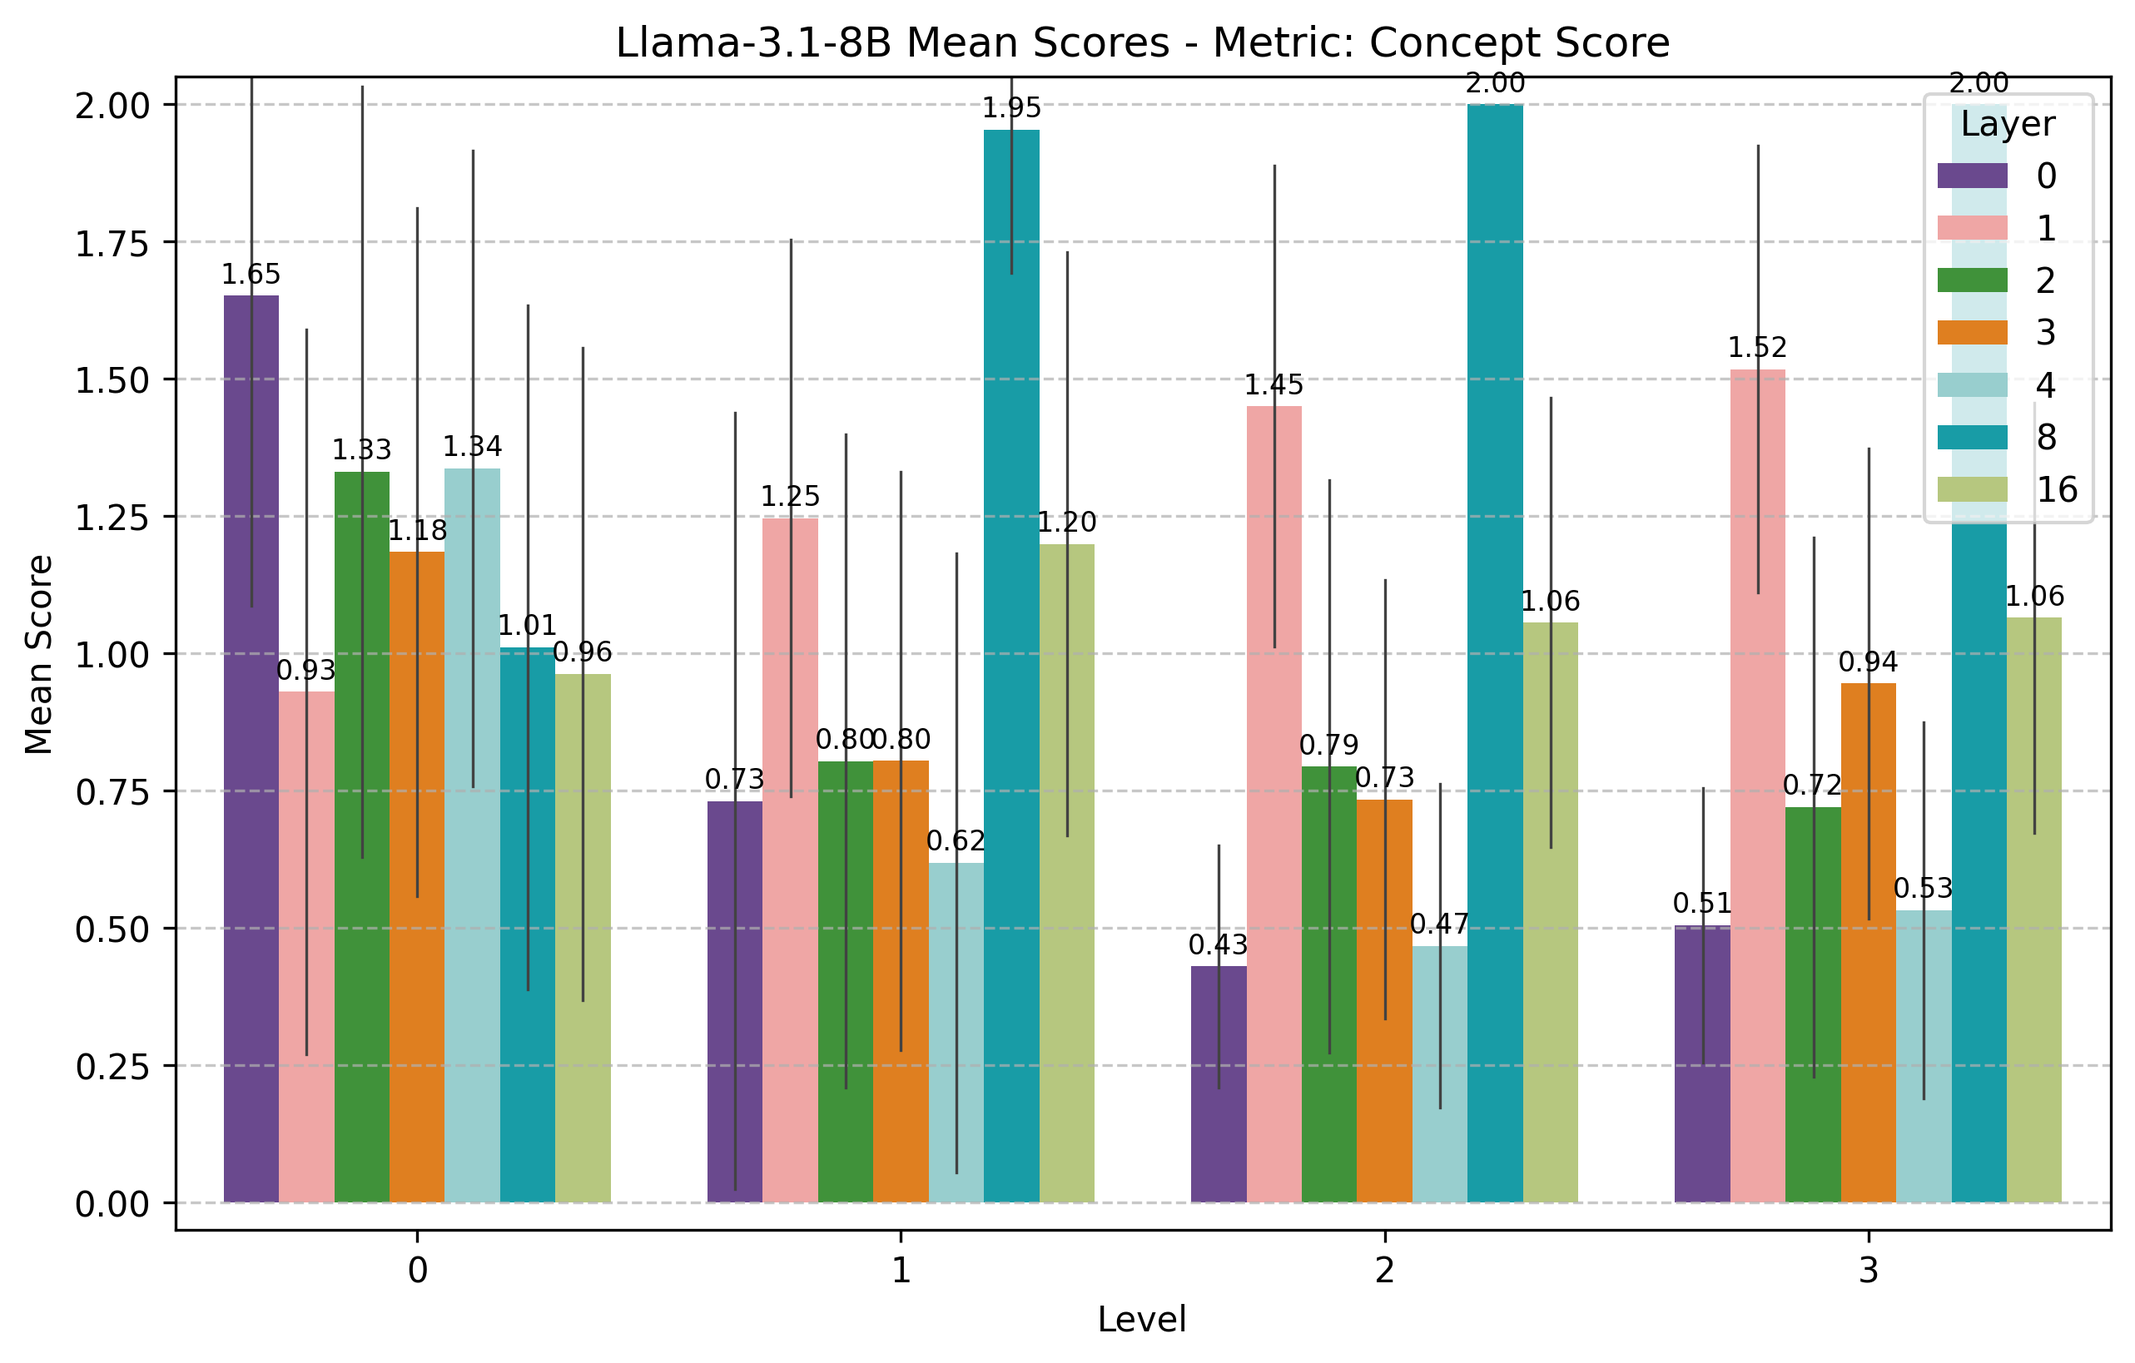
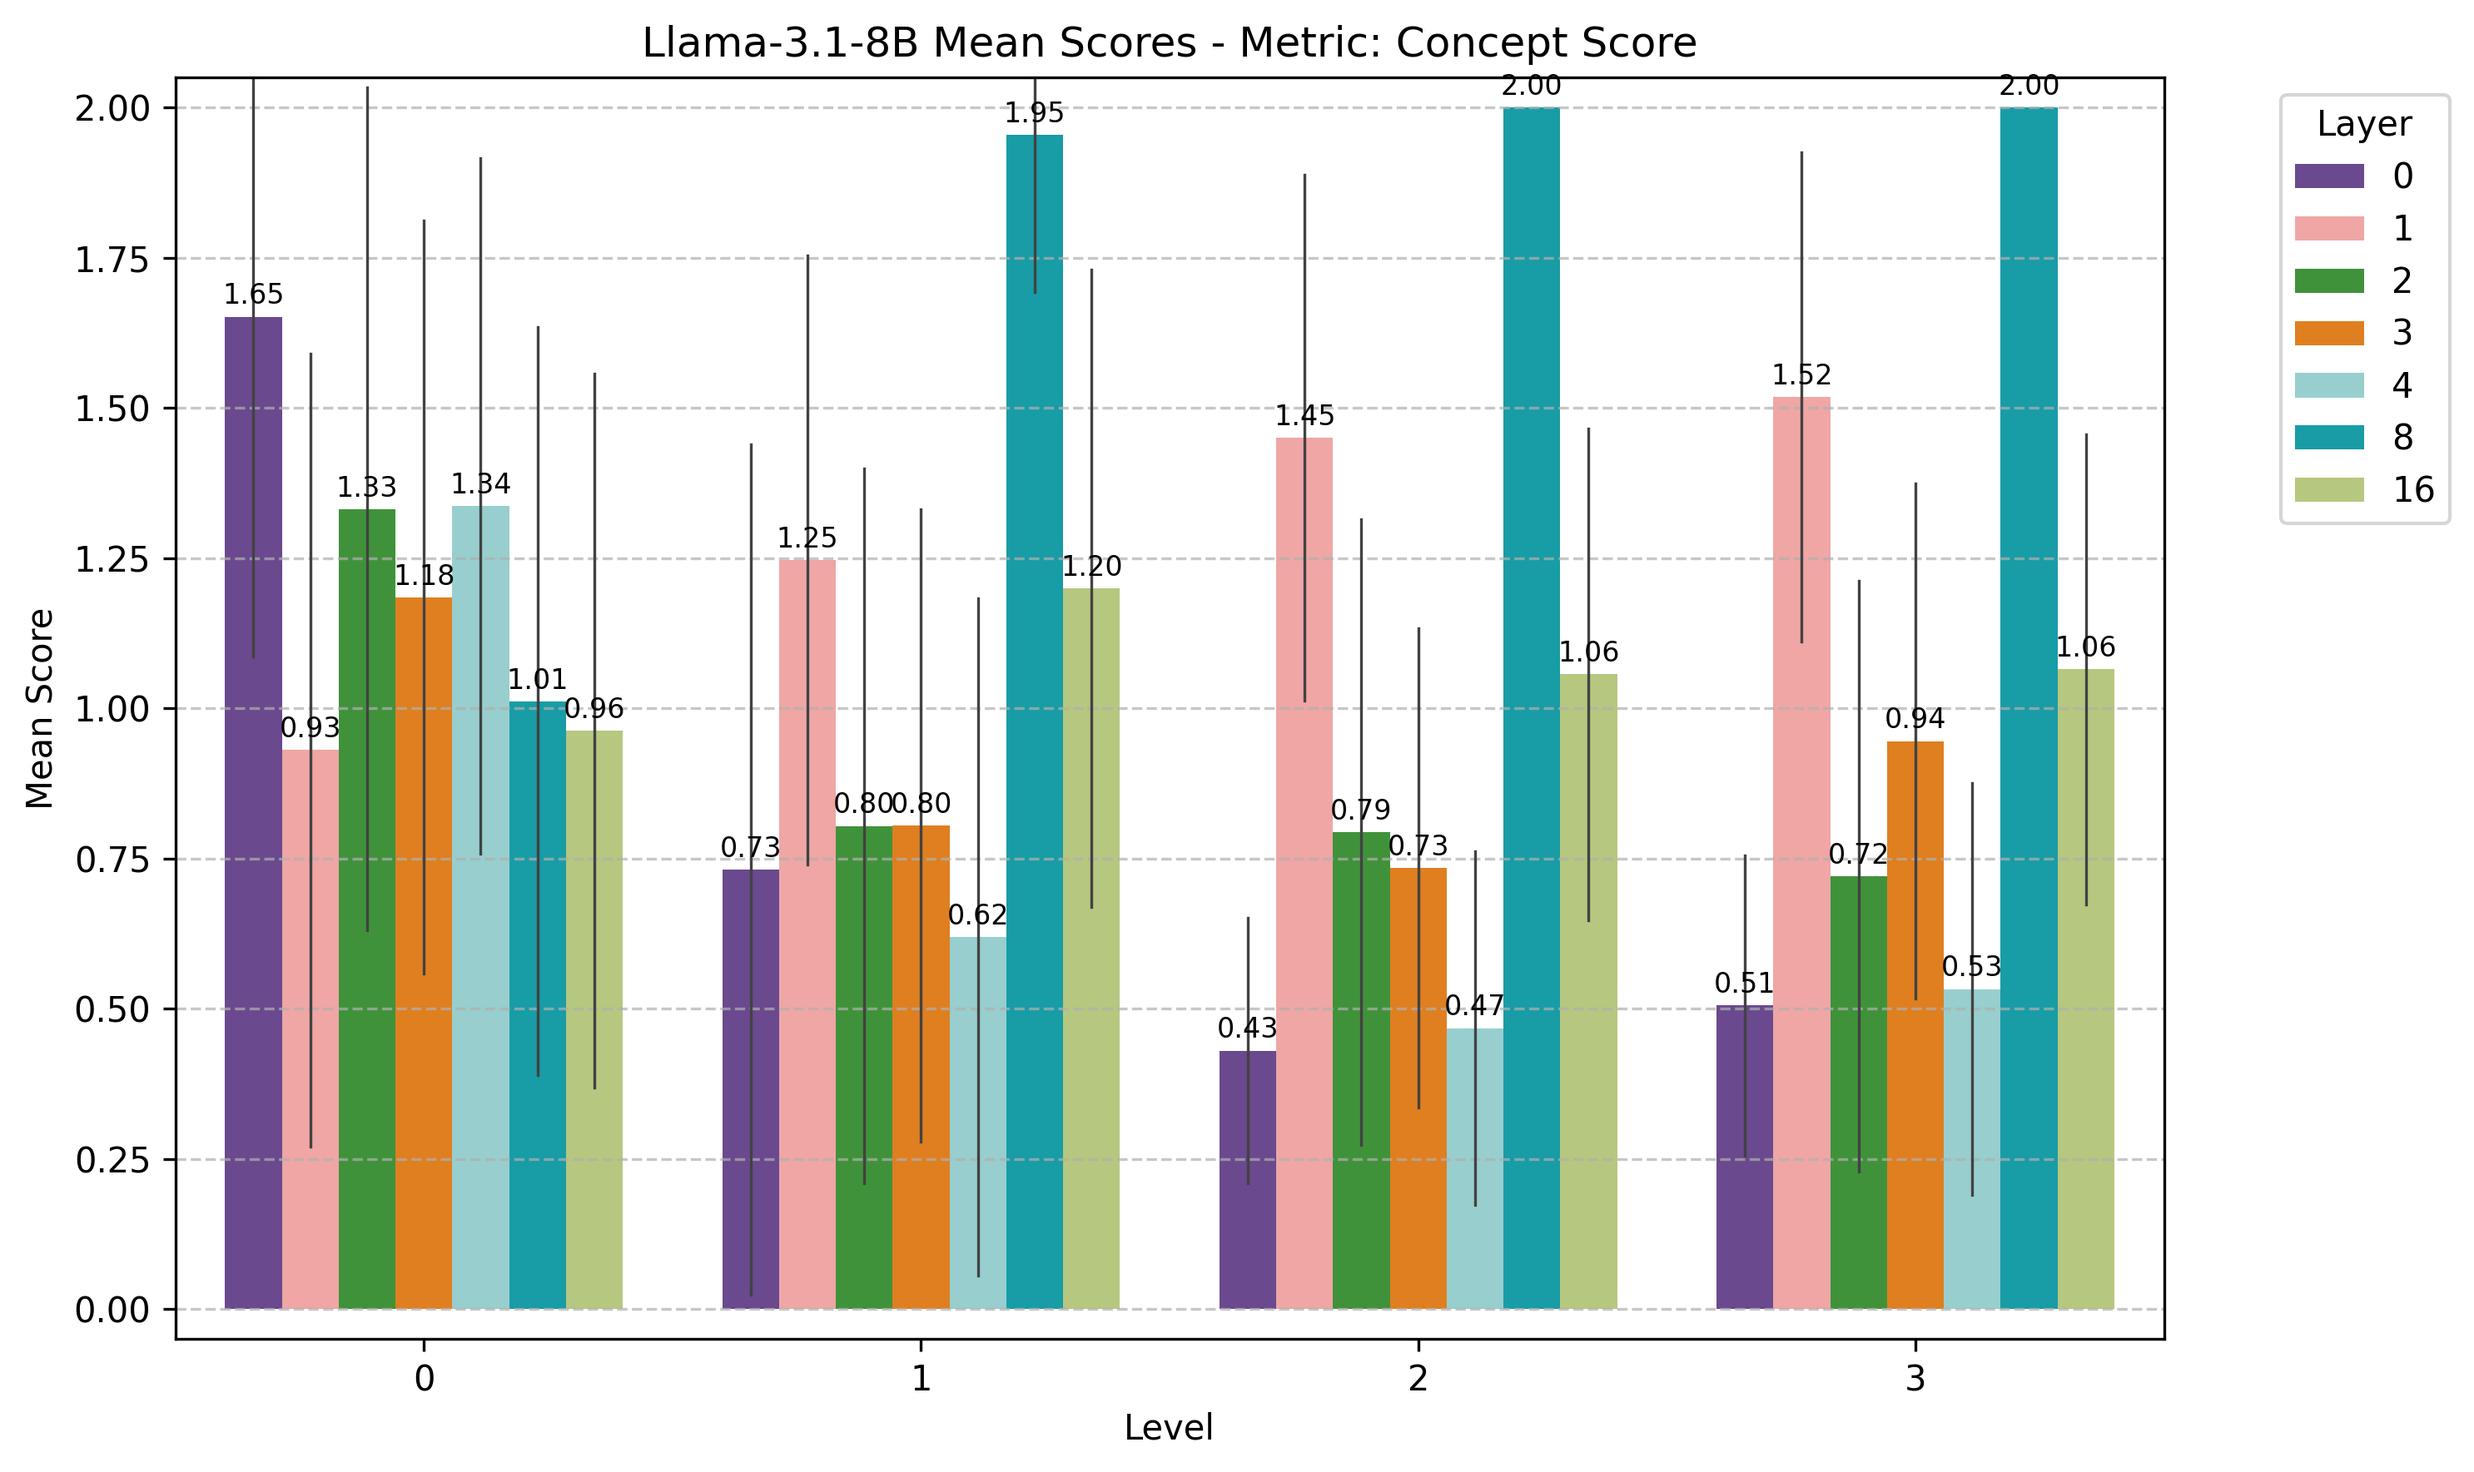
more results

diff --git a/experiments/evaluation/vis_utils.py b/experiments/evaluation/vis_utils.py
@@ -1,5 +1,5 @@
 from typing import Optional
-
+import pandas as pd
 import matplotlib.pyplot as plt
 import seaborn as sns
 
@@ -27,10 +27,60 @@ def plot_boxplot(df, plt_title, x: str, y: str, hue: str, ylim: tuple, color_pal
     ax.set_xlabel(x)
     ax.set_ylabel(y)
     ax.set_ylim(*ylim)
-    ax.legend(title=hue, loc='upper right')
+    # Move legend outside
+    ax.legend(bbox_to_anchor=(1.05, 1), loc="upper left", title=hue)
+    fig.tight_layout()
     ax.grid(axis='y', linestyle='--', alpha=0.7)
 
     return fig
+
+def plot_multi_boxplot(df_map: dict[str, pd.DataFrame], x: str, y: str, hue: str, ylim: tuple, color_palette = "Set2") -> plt.Figure:
+    num_plots = len(df_map)
+    width = 4 * num_plots
+
+    sns.set_style("ticks")
+    fig, axes = plt.subplots(nrows=1, ncols=num_plots, figsize=(width, 4), sharey=True)
+
+    for ax, (title, df) in zip(axes, df_map.items()):
+        sns.boxplot(
+            data=df,
+            x=x,
+            y=y,
+            hue=hue,
+            palette=color_palette,
+            ax=ax,
+        )
+
+        sns.despine(ax=ax, top=True, right=True, left=False, bottom=False)
+        ax.set_title(title)
+        ax.set_xlabel(x)
+        ax.set_ylabel(y)
+        ax.set_ylim(*ylim)
+        ax.grid(axis='y', linestyle='--', alpha=0.7)
+
+    # Remove legends from individual plots
+    for ax in axes:
+        ax.get_legend().remove()
+
+    # Create joint legend
+    lines_labels = [ax.get_legend_handles_labels() for ax in axes]
+    handles, labels = [sum(lol, []) for lol in zip(*lines_labels)] # Flatten the lines_labels list
+    unique_labels_dict = dict(zip(labels, handles))
+    sorted_keys = sorted(unique_labels_dict.keys(), key=lambda x: int(x))
+    final_handles = [unique_labels_dict[k] for k in sorted_keys]
+    final_labels = sorted_keys
+
+    fig.legend(
+        final_handles,
+        final_labels,
+        title="Layer",
+        loc="upper left",
+        bbox_to_anchor=(1.05, 1)
+    )
+    fig.tight_layout()
+
+    return fig
+
 
 def plot_barplot(df, plt_title, x: str, y: str, hue: str, ylim: tuple, y_label: Optional[str] = None, bar_label_fontsize = 9, color_palette = "Set2") -> plt.Figure:
     fig, ax = plt.subplots(figsize=(10, 6))
@@ -52,7 +102,8 @@ def plot_barplot(df, plt_title, x: str, y: str, hue: str, ylim: tuple, y_label: 
     ax.set_xlabel(x)
     ax.set_ylabel(y_label if y_label else y)
     ax.set_ylim(*ylim)
-    ax.legend(title=hue, loc='upper right')
+    ax.legend(bbox_to_anchor=(1.05, 1), loc="upper left", title=hue)
+    fig.tight_layout()
     ax.grid(axis='y', linestyle='--', alpha=0.7)
 
     return fig
